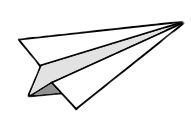
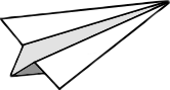
Changed dimensions of the plane

Changed region(s): [[0.0, 0.0, 1.0, 1.0]]

diff --git a/core/src/com/mygdx/sparkflight/SparkFlight.java b/core/src/com/mygdx/sparkflight/SparkFlight.java
@@ -26,7 +26,7 @@ public class SparkFlight extends ApplicationAdapter {
 	public static AssetManager assets;
 	public static Exit exit;
 	public static Wall wall;
-	public static int level = 4;
+	public static int level = 1;
 	public static boolean changeLevel = true;
 	public static boolean reloadLevel = false;
 	public static int gameState = 2;//1=mainMenu, 2=game, 3=nextLevel, 4=retryLevel
@@ -111,14 +111,14 @@ public class SparkFlight extends ApplicationAdapter {
 			{
 				entities.add(new Wall(Float.parseFloat(tokens.nextToken()),
 										Float.parseFloat(tokens.nextToken())));
-			}// else if(type.equals("Source"))
-//			{
-//				SourceCharge charge = new SourceCharge(Float.parseFloat(tokens.nextToken()),
-//						Float.parseFloat(tokens.nextToken()),
-//						Double.parseDouble(tokens.nextToken()));
-//				entities.add(charge);
-//				Player.charges.add(charge);
-//			}
+			} else if(type.equals("Source"))
+			{
+				SourceCharge charge = new SourceCharge(Float.parseFloat(tokens.nextToken()),
+						Float.parseFloat(tokens.nextToken()),
+						Double.parseDouble(tokens.nextToken()));
+				entities.add(charge);
+				Player.charges.add(charge);
+			}
 		}
 	}
 	
@@ -142,6 +142,7 @@ public class SparkFlight extends ApplicationAdapter {
 			entities.get(i).act();
 			entities.get(i).draw();
 		}
+		System.out.println("Plane hitbox: " + plane.getHitbox());
 		
 		Gdx.input.setInputProcessor(new InputAdapter () {
 			   public boolean touchUp (int x, int y, int pointer, int button) {

diff --git a/core/src/com/mygdx/sparkflight/Player.java b/core/src/com/mygdx/sparkflight/Player.java
@@ -14,7 +14,7 @@ public class Player extends Entity
 	public Player(float x, float y, double c, String name) 
 	{
 		super(x, y, c,name);
-		//Size of plane 170 by 100
+		//Size of plane 170 by 90
 		charges = new ArrayList<SourceCharge>();
 	}
 	public float getMass ()
@@ -59,12 +59,14 @@ public class Player extends Entity
 		for(int i = 0; i < charges.size();i++)
 		{
 			displacement.x = charges.get(i).getMidPointX() - getMidPointX();
+			System.out.println("Dx: " + displacement.x);
 			displacement.y = charges.get(i).getMidPointY() - getMidPointY();
+			System.out.println("Dy: " + displacement.y);
 			float d2 = displacement.len2(); // find square distance
 			displacement.nor() // make the vector length 1
 			//scale by k * q * Q / d ^ 2
 			.scl((float)-(K * charges.get(i).charge * charge) / d2);
-//			System.out.println("Charge hitbox: " + charges.get(i).getHitbox());
+			System.out.println("Charge hitbox: " + charges.get(i).getHitbox());
 		}
 		
 		velocity.add(displacement.x / MASS, displacement.y / MASS);
